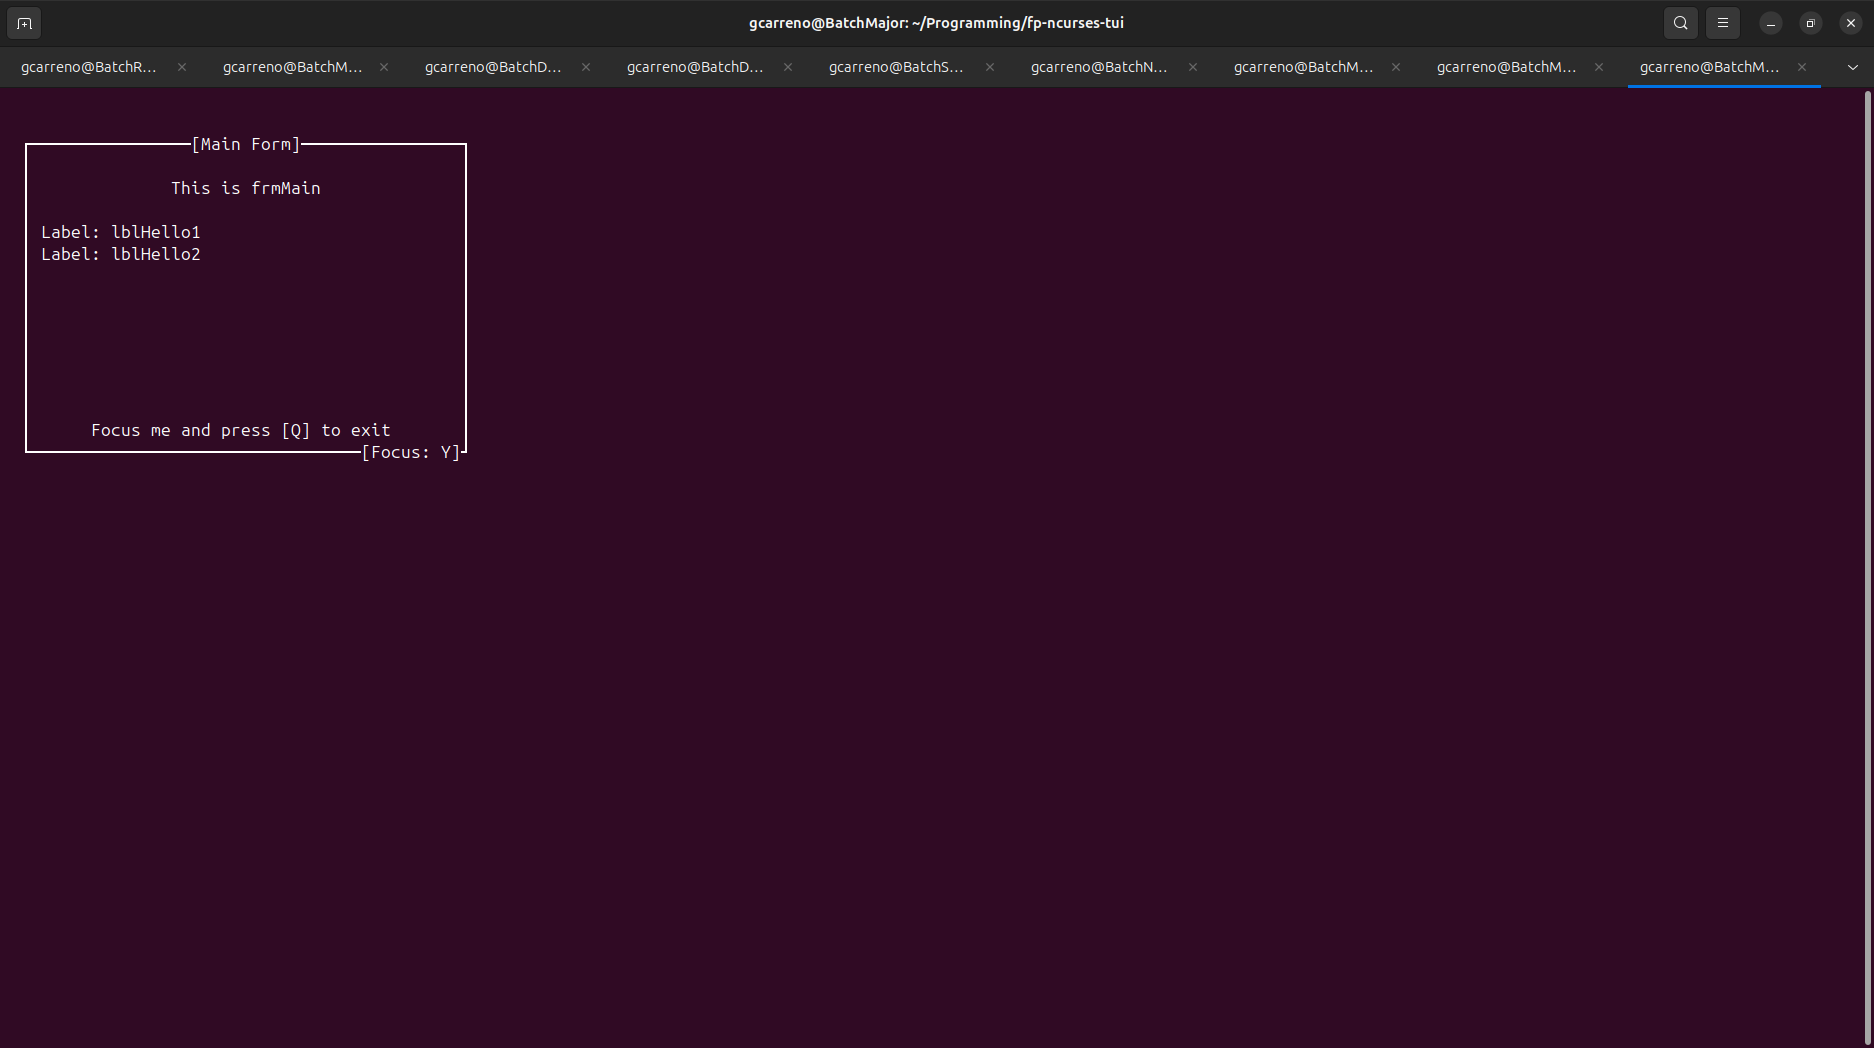
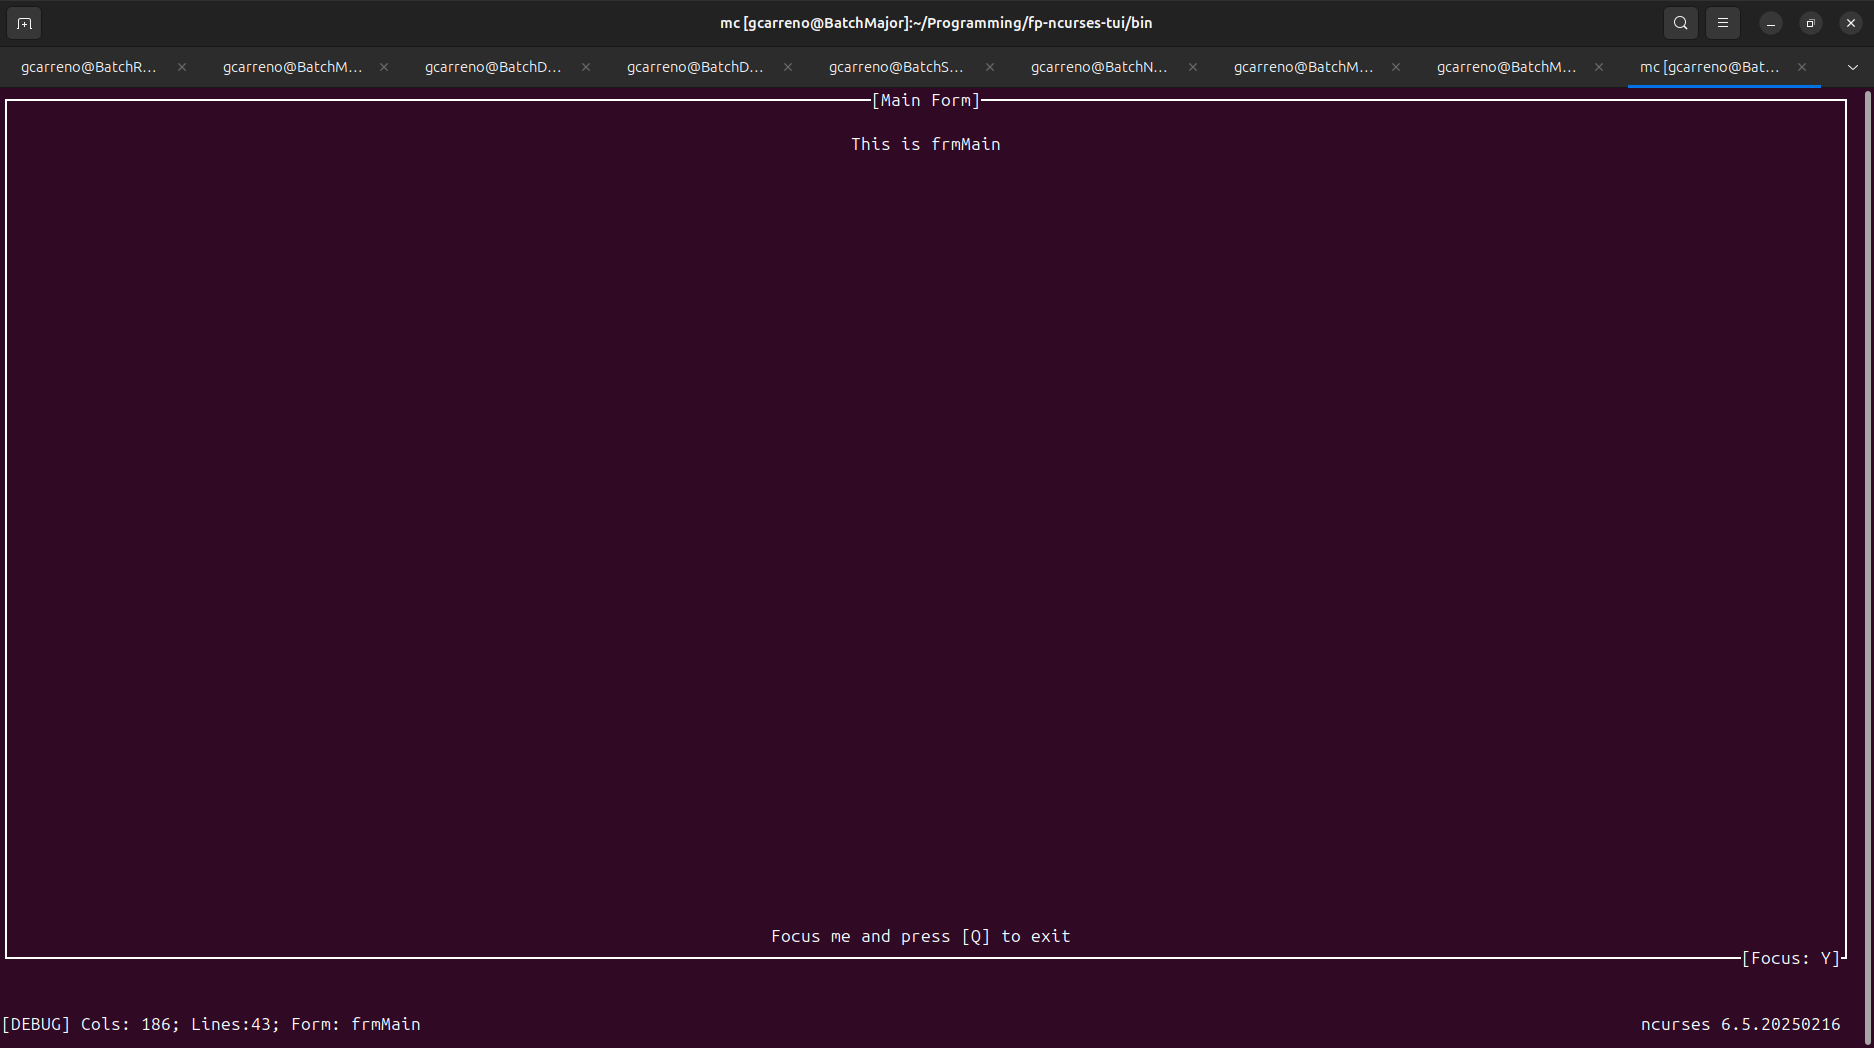
style: Better looking windows and screenshots

diff --git a/README.md b/README.md
@@ -10,5 +10,11 @@
 This is an attempt to recreate, as much as possible, the pattern used in the `LCL` but instead of a graphic environment, we wrap the well known `ncurses` lib.
 
 ## Screen Shots
-
+**One Form**
 ![fp-ncurses-tui-example-one-form](img/fp-ncurses-tui-example-one-form.png)
+**Two Forms**
+![fp-ncurses-tui-example-two-forms](img/fp-ncurses-tui-example-two-forms.png)
+**Component Label**
+![fp-ncurses-tui-example-component-label](img/fp-ncurses-tui-example-component-label.png)
+**Component Button**
+![fp-ncurses-tui-example-component-button](img/fp-ncurses-tui-example-component-button.png)
